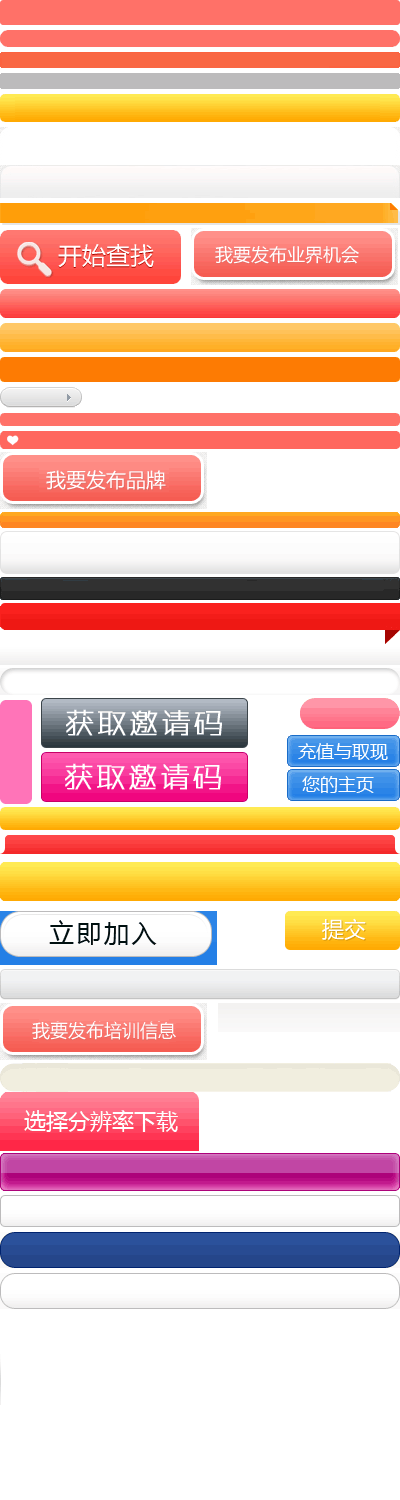
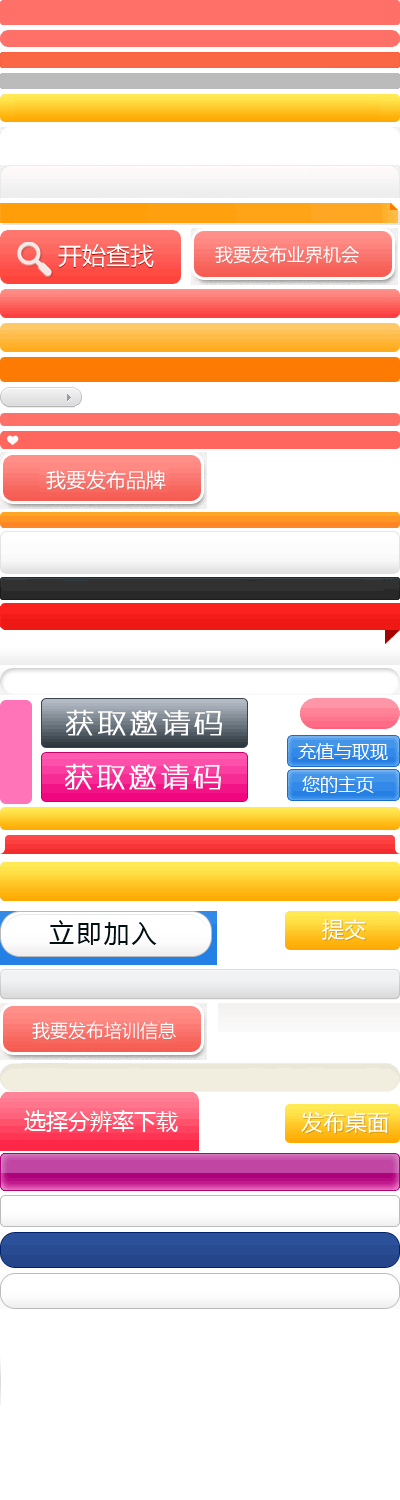
...

Changed region(s): [[0.69, 0.736, 1.0, 0.7667]]

diff --git a/template/youmo/p32.html b/template/youmo/p32.html
@@ -1,0 +1,83 @@
+<{include file="youmo/header.html" title="p32"}>
+<div class="column">
+	<div class="hor_box desktop">
+		<div class="hor_item side">
+			<div class="box">
+				<div class="radius radius_top">
+					<div>radius top</div>
+				</div>
+				<div class="box_inner p_lr_20">
+					<div class="bc">
+						<dl class="resolution">
+							<dt>选择分辨率下载</dt>
+							<dd><a href="#">全部</a></dd>
+							<dd><a href="#">1920X1200</a></dd>
+							<dd><a href="#">1920X1080</a></dd>
+							<dd><a href="#">1680X1050</a></dd>
+							<dd><a href="#" class="current">1600X1200</a></dd>
+							<dd><a href="#">1400X900</a></dd>
+							<dd><a href="#">1366X768</a></dd>
+							<dd><a href="#">1280X800</a></dd>
+							<dd><a href="#">1280X768</a></dd>
+							<dd><a href="#">1280X1024</a></dd>
+							<dd><a href="#">1280X768</a></dd>
+						</dl>
+						<a href="#" class="releasing_desktop">发布桌面</a>
+					</div>
+				</div>
+				<div class="radius radius_btm">
+					<div>radius bottom</div>
+				</div>
+			</div>
+		</div>
+		<div class="hor_item main">
+			<div class="column">
+				<div class="box">
+					<div class="radius radius_top">
+						<div>radius top</div>
+					</div>
+					<div class="box_inner p_lr_20">
+						<div class="bc">
+							content bc<br>
+							content bc<br>
+							content bc<br>
+							content bc<br>
+						</div>
+					</div>
+					<div class="radius radius_btm">
+						<div>radius bottom</div>
+					</div>
+				</div>
+			</div>
+			<div class="column">
+				<div class="box">
+					<div class="radius radius_top">
+						<div>radius top</div>
+					</div>
+					<div class="box_inner p_lr_20">
+						<div class="bt">
+							<h2>
+								<strong class="title">
+									<span>猜你喜欢</span>
+								</strong>
+								<span class="letter">
+									I GUESS YOU LIKE
+								</span>
+							</h2>
+						</div>
+						<div class="bc">
+							content bc<br>
+							content bc<br>
+							content bc<br>
+							content bc<br>
+						</div>
+					</div>
+					<div class="radius radius_btm">
+						<div>radius bottom</div>
+					</div>
+				</div>
+			</div>
+		</div>
+	</div>
+</div>
+<{include file="youmo/footer.html"}>

diff --git a/static/youmo/css/cage.css b/static/youmo/css/cage.css
@@ -1907,3 +1907,40 @@ body{
 #online_registration{
 	display:none;
 }
+.desktop .main{
+	width:754px;
+	margin-left:10px;
+}
+.resolution{
+	margin:0 -15px;
+}
+.resolution dt{
+	height:59px;
+	text-indent:-999em;
+	background:url(../img/btn_bg.png) no-repeat 0 -1091px;
+	border-bottom:1px solid #fff;
+}
+.resolution dd{
+	font-size:18px;
+	font-weight:700;
+	text-align:center;
+	border-top:1px solid #fff;
+	height:44px;
+	line-height:44px;
+}
+.resolution a{
+	display:block;
+	background:#E0E0E0;
+}
+.resolution .current{
+	background:#C6C6C6;
+}
+.releasing_desktop{
+	width:115px;
+	height:42px;
+	display:block;
+	text-indent:-999em;
+	overflow:hidden;
+	background:url(../img/btn_bg.png) no-repeat -285px -1101px;
+	margin:20px auto;
+}

diff --git a/template/youmo/header.html b/template/youmo/header.html
@@ -5,7 +5,7 @@
 		<title><{$title}></title>
 		<link type="text/css" rel="stylesheet" href="static/youmo/css/cage.css" />
 		<link type="text/css" rel="stylesheet" href="static/youmo/css/fanfan.css" />
-		<link type="text/css" rel="stylesheet" href="static/youmo/js/artDialog/skins/chrome.css" />
+		<link type="text/css" rel="stylesheet" href="static/youmo/js/artDialog/skins/default.css" />
 		<!--[if lte IE 8]>
 			<link type="text/css" rel="stylesheet" href="static/youmo/css/ie.css" />
 			<link type="text/css" rel="stylesheet" href="static/youmo/css/fan_ie.css" />
